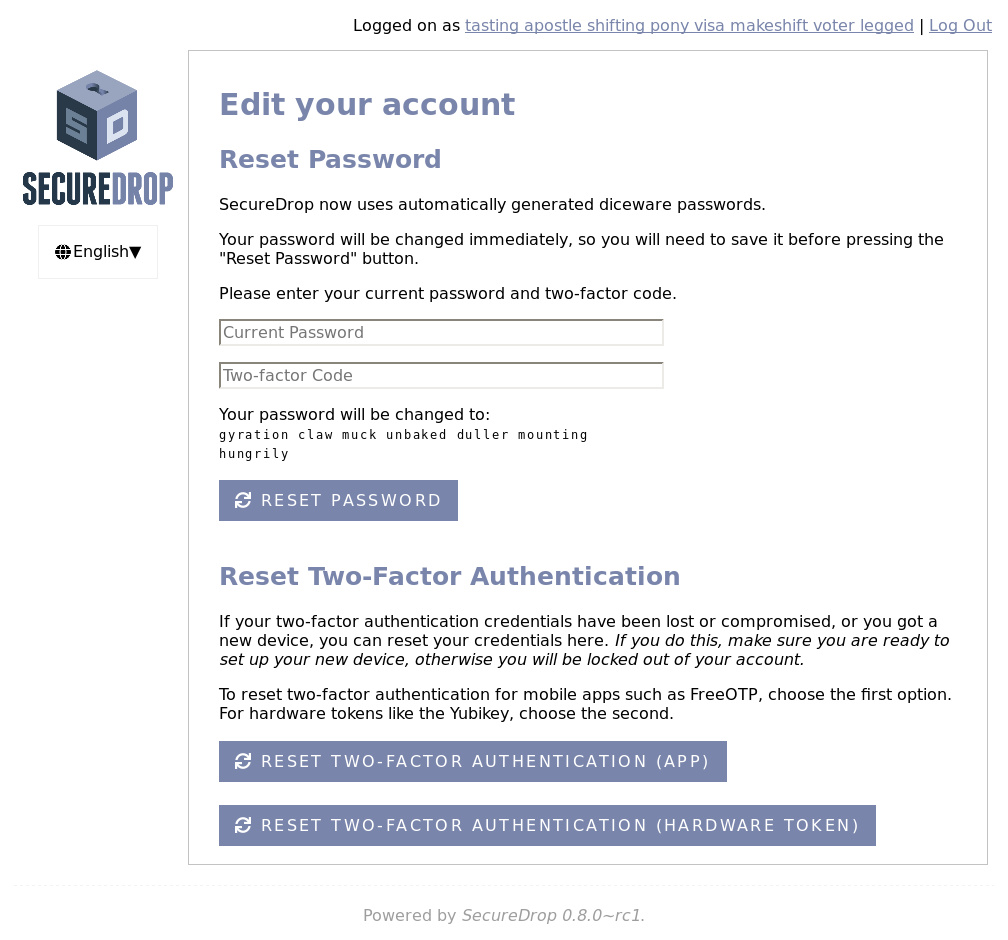
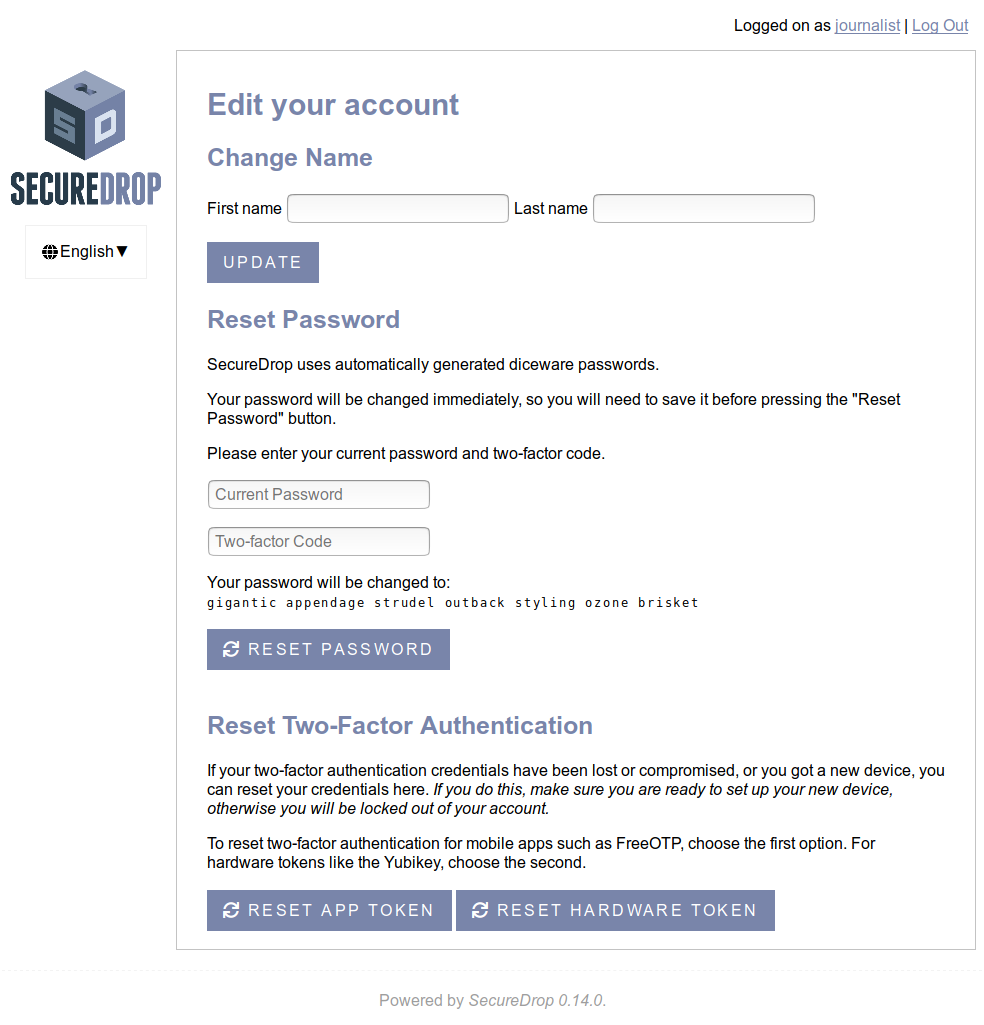
Update SecureDrop screenshots for source and journalist guide
This also includes a correction in the docs that describe a
screenshot, which refers to the "Exit" button (it was once briefly
called that, but is now back to "Log out").

(cherry picked from commit 88992fde6b15dd8ead1cc97d6f8a8cd831dcd068)

Changed region(s): [[0.1829, 0.0, 1.0, 0.9255], [0.0, 0.0617, 0.1829, 0.2777], [0.3659, 0.9564, 0.6402, 0.9872]]

diff --git a/docs/source.rst b/docs/source.rst
@@ -114,7 +114,7 @@ messages.
 |Confirmation page|
 
 Once you are finished submitting documents, be certain you have saved your
-secret codename and then click the **Exit** button:
+secret codename and then click the **Log out** button:
 
 |Logout|
 
